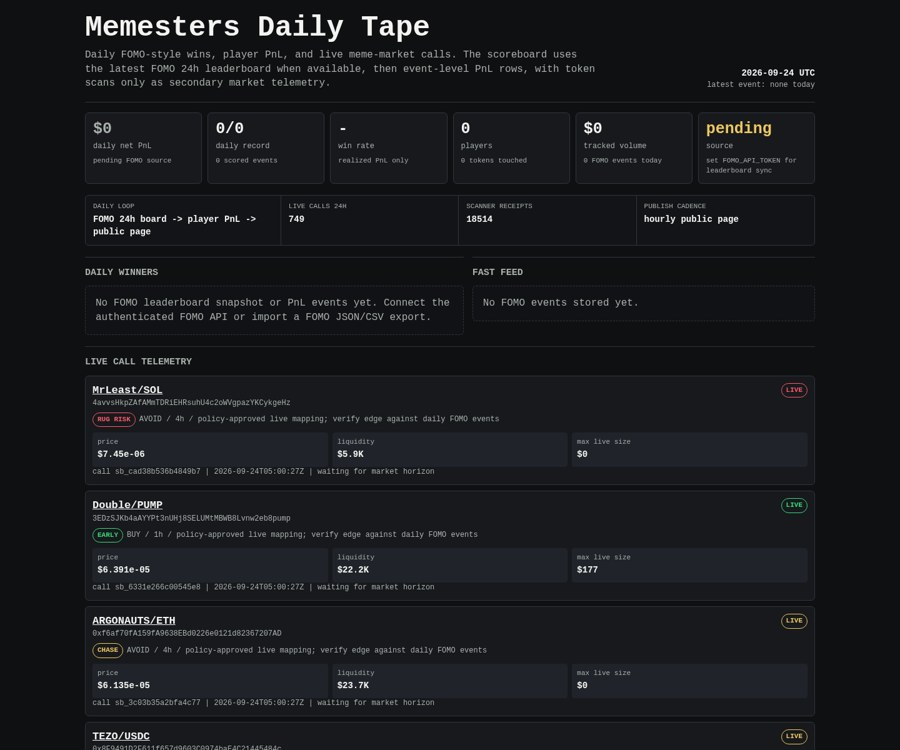
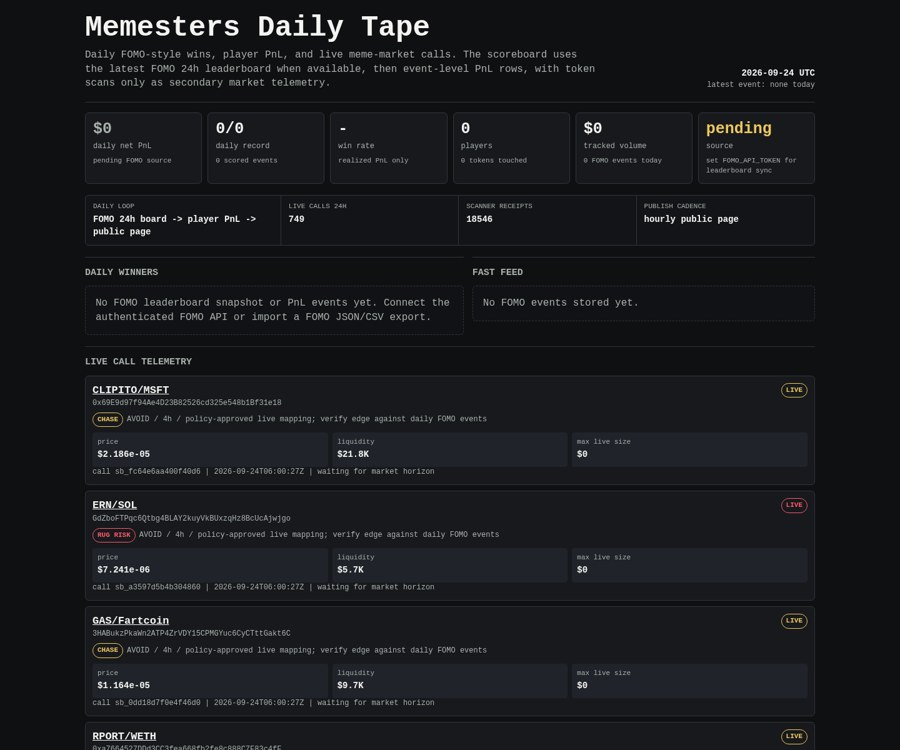
Update Memesters scoreboard

diff --git a/memesters/index.html b/memesters/index.html
@@ -150,7 +150,7 @@
     <div class="rail" aria-label="live operating loop">
       <div><span>daily loop</span><b>FOMO 24h board -> player PnL -> public page</b></div>
       <div><span>live calls 24h</span><b>749</b></div>
-      <div><span>scanner receipts</span><b>18514</b></div>
+      <div><span>scanner receipts</span><b>18546</b></div>
       <div><span>publish cadence</span><b>hourly public page</b></div>
     </div>
 
@@ -171,111 +171,6 @@
     <article class="receipt">
       <div class="receipt-head">
         <div>
-          <div class="pair"><a href="https://dexscreener.com/solana/6ij8ne4tiwhdshzzawsdkkd89q3b5vj2hah98entj5zs">MrLeast/SOL</a></div>
-          <div class="addr">4avvsHkpZAfAMmTDRiEHRsuhU4c2oWVgpazYKCykgeHz</div>
-          <div class="addr policy-line">
-            <span class="badge rug-risk">RUG RISK</span>
-            <span>AVOID / 4h / policy-approved live mapping; verify edge against daily FOMO events</span>
-          </div>
-        </div>
-        <span class="badge rug-risk">LIVE</span>
-      </div>
-      <div class="receipt-grid">
-        <div class="kv"><span>price</span><b>$7.45e-06</b></div>
-        <div class="kv"><span>liquidity</span><b>$5.9K</b></div>
-        <div class="kv"><span>max live size</span><b>$0</b></div>
-      </div>
-      <div class="outcomes">call sb_cad38b536b4849b7 | 2026-09-24T05:00:27Z | waiting for market horizon</div>
-    </article>
-    
-
-    <article class="receipt">
-      <div class="receipt-head">
-        <div>
-          <div class="pair"><a href="https://dexscreener.com/solana/6vro11ao6lssolkjzu56y4vexdxy4f59wmh6frykhjyd">Double/PUMP</a></div>
-          <div class="addr">3EDzSJKb4aAYYPt3nUHj8SELUMtMBWB8Lvnw2eb8pump</div>
-          <div class="addr policy-line">
-            <span class="badge early">EARLY</span>
-            <span>BUY / 1h / policy-approved live mapping; verify edge against daily FOMO events</span>
-          </div>
-        </div>
-        <span class="badge early">LIVE</span>
-      </div>
-      <div class="receipt-grid">
-        <div class="kv"><span>price</span><b>$6.391e-05</b></div>
-        <div class="kv"><span>liquidity</span><b>$22.2K</b></div>
-        <div class="kv"><span>max live size</span><b>$177</b></div>
-      </div>
-      <div class="outcomes">call sb_6331e266c00545e8 | 2026-09-24T05:00:27Z | waiting for market horizon</div>
-    </article>
-    
-
-    <article class="receipt">
-      <div class="receipt-head">
-        <div>
-          <div class="pair"><a href="https://dexscreener.com/robinhood/0xb4827531bb44965ec09001b4d52dff68f21ee2c0ad130a11ed0d394025b711da">ARGONAUTS/ETH</a></div>
-          <div class="addr">0xf6af70fA159fA9638EBd0226e0121d82367207AD</div>
-          <div class="addr policy-line">
-            <span class="badge chase">CHASE</span>
-            <span>AVOID / 4h / policy-approved live mapping; verify edge against daily FOMO events</span>
-          </div>
-        </div>
-        <span class="badge chase">LIVE</span>
-      </div>
-      <div class="receipt-grid">
-        <div class="kv"><span>price</span><b>$6.135e-05</b></div>
-        <div class="kv"><span>liquidity</span><b>$23.7K</b></div>
-        <div class="kv"><span>max live size</span><b>$0</b></div>
-      </div>
-      <div class="outcomes">call sb_3c03b35a2bfa4c77 | 2026-09-24T05:00:27Z | waiting for market horizon</div>
-    </article>
-    
-
-    <article class="receipt">
-      <div class="receipt-head">
-        <div>
-          <div class="pair"><a href="https://dexscreener.com/arc/0xe5434aec0bcf1bef4ffddb0dfcbc0c8b96643e55b5e1fd7b390cd911baed743f">TEZO/USDC</a></div>
-          <div class="addr">0x8F9491D2F611f657d9603C0974baE4C21445484c</div>
-          <div class="addr policy-line">
-            <span class="badge chase">CHASE</span>
-            <span>AVOID / 4h / policy-approved live mapping; verify edge against daily FOMO events</span>
-          </div>
-        </div>
-        <span class="badge chase">LIVE</span>
-      </div>
-      <div class="receipt-grid">
-        <div class="kv"><span>price</span><b>$2.857e-05</b></div>
-        <div class="kv"><span>liquidity</span><b>$14.4K</b></div>
-        <div class="kv"><span>max live size</span><b>$0</b></div>
-      </div>
-      <div class="outcomes">call sb_73339ad5a9df4302 | 2026-09-24T05:00:27Z | waiting for market horizon</div>
-    </article>
-    
-
-    <article class="receipt">
-      <div class="receipt-head">
-        <div>
-          <div class="pair"><a href="https://dexscreener.com/solana/hhe2ty1dgpr7sdmjc2htacq7dtxfr5f6bf3n2nwwkoce">FUNKOS/SOL</a></div>
-          <div class="addr">BDKC1AV3saXrN8jKnWB2TTQmDD6z8CFdY55ku7eAfunk</div>
-          <div class="addr policy-line">
-            <span class="badge early">EARLY</span>
-            <span>BUY / 1h / policy-approved live mapping; verify edge against daily FOMO events</span>
-          </div>
-        </div>
-        <span class="badge early">LIVE</span>
-      </div>
-      <div class="receipt-grid">
-        <div class="kv"><span>price</span><b>$7.186e-05</b></div>
-        <div class="kv"><span>liquidity</span><b>$22.4K</b></div>
-        <div class="kv"><span>max live size</span><b>$269</b></div>
-      </div>
-      <div class="outcomes">call sb_bf97b0ee631343bc | 2026-09-24T05:00:27Z | waiting for market horizon</div>
-    </article>
-    
-
-    <article class="receipt">
-      <div class="receipt-head">
-        <div>
           <div class="pair"><a href="https://dexscreener.com/robinhood/0x426569b32d65ec58b0f852afcb3bcc5fc5601dd6863fbf44258b944521a05ee1">CLIPITO/MSFT</a></div>
           <div class="addr">0x69E9d97f94Ae4D23B82526cd325e548b1Bf31e18</div>
           <div class="addr policy-line">
@@ -286,11 +181,11 @@
         <span class="badge chase">LIVE</span>
       </div>
       <div class="receipt-grid">
-        <div class="kv"><span>price</span><b>$2.183e-05</b></div>
+        <div class="kv"><span>price</span><b>$2.186e-05</b></div>
         <div class="kv"><span>liquidity</span><b>$21.8K</b></div>
         <div class="kv"><span>max live size</span><b>$0</b></div>
       </div>
-      <div class="outcomes">call sb_50fe6fd71fe14e67 | 2026-09-24T05:00:27Z | waiting for market horizon</div>
+      <div class="outcomes">call sb_fc64e6aa400f40d6 | 2026-09-24T06:00:27Z | waiting for market horizon</div>
     </article>
     
 
@@ -307,19 +202,61 @@
         <span class="badge rug-risk">LIVE</span>
       </div>
       <div class="receipt-grid">
-        <div class="kv"><span>price</span><b>$2.476e-05</b></div>
-        <div class="kv"><span>liquidity</span><b>$12.2K</b></div>
+        <div class="kv"><span>price</span><b>$7.241e-06</b></div>
+        <div class="kv"><span>liquidity</span><b>$5.7K</b></div>
         <div class="kv"><span>max live size</span><b>$0</b></div>
       </div>
-      <div class="outcomes">call sb_4405f8f2d9844f79 | 2026-09-24T05:00:27Z | waiting for market horizon</div>
+      <div class="outcomes">call sb_a3597d5b4b304860 | 2026-09-24T06:00:27Z | waiting for market horizon</div>
     </article>
     
 
     <article class="receipt">
       <div class="receipt-head">
         <div>
-          <div class="pair"><a href="https://dexscreener.com/bsc/0x9db472d4450319d9e368000c1e6fd606866db82d">兔儿爷/FXIon</a></div>
-          <div class="addr">0xBaD51F4922189C087c75323430e8B8d1b3247777</div>
+          <div class="pair"><a href="https://dexscreener.com/solana/ctq3twtszlb5r2osqfrvf4oa7ndmxe472rsd1k22v98h">GAS/Fartcoin </a></div>
+          <div class="addr">3HABukzPkaWn2ATP4ZrVDY15CPMGYuc6CyCTttGakt6C</div>
+          <div class="addr policy-line">
+            <span class="badge chase">CHASE</span>
+            <span>AVOID / 4h / policy-approved live mapping; verify edge against daily FOMO events</span>
+          </div>
+        </div>
+        <span class="badge chase">LIVE</span>
+      </div>
+      <div class="receipt-grid">
+        <div class="kv"><span>price</span><b>$1.164e-05</b></div>
+        <div class="kv"><span>liquidity</span><b>$9.7K</b></div>
+        <div class="kv"><span>max live size</span><b>$0</b></div>
+      </div>
+      <div class="outcomes">call sb_0dd18d7f0e4f46d0 | 2026-09-24T06:00:27Z | waiting for market horizon</div>
+    </article>
+    
+
+    <article class="receipt">
+      <div class="receipt-head">
+        <div>
+          <div class="pair"><a href="https://dexscreener.com/robinhood/0x7cc9819ec5aad35e8d6080fefb2a747fdc74a19570bc6b9972da4893161b5c62">RPORT/WETH</a></div>
+          <div class="addr">0xa7664527DDd3CC3fea668fb2fe8c888C7F83c4fF</div>
+          <div class="addr policy-line">
+            <span class="badge chase">CHASE</span>
+            <span>AVOID / 4h / policy-approved live mapping; verify edge against daily FOMO events</span>
+          </div>
+        </div>
+        <span class="badge chase">LIVE</span>
+      </div>
+      <div class="receipt-grid">
+        <div class="kv"><span>price</span><b>$8.721e-06</b></div>
+        <div class="kv"><span>liquidity</span><b>$293.1K</b></div>
+        <div class="kv"><span>max live size</span><b>$0</b></div>
+      </div>
+      <div class="outcomes">call sb_efa528cb5b01453e | 2026-09-24T06:00:27Z | waiting for market horizon</div>
+    </article>
+    
+
+    <article class="receipt">
+      <div class="receipt-head">
+        <div>
+          <div class="pair"><a href="https://dexscreener.com/arc/0x54257aaa7bcadcd5b7a29b830b99f04d8b929e40e317e764f6226b7834cf0d7a">AMC/USDC</a></div>
+          <div class="addr">0xd8032e999a713830460E506b53cCDC15f24b7cd2</div>
           <div class="addr policy-line">
             <span class="badge rug-risk">RUG RISK</span>
             <span>AVOID / 4h / policy-approved live mapping; verify edge against daily FOMO events</span>
@@ -328,19 +265,61 @@
         <span class="badge rug-risk">LIVE</span>
       </div>
       <div class="receipt-grid">
-        <div class="kv"><span>price</span><b>$3.647e-06</b></div>
-        <div class="kv"><span>liquidity</span><b>$7.8K</b></div>
+        <div class="kv"><span>price</span><b>$2.629e-06</b></div>
+        <div class="kv"><span>liquidity</span><b>$2.6K</b></div>
         <div class="kv"><span>max live size</span><b>$0</b></div>
       </div>
-      <div class="outcomes">call sb_e5d46ee95f454bc5 | 2026-09-24T04:45:25Z | waiting for market horizon</div>
+      <div class="outcomes">call sb_88a0fe1b85e84fcf | 2026-09-24T06:00:27Z | waiting for market horizon</div>
     </article>
     
 
     <article class="receipt">
       <div class="receipt-head">
         <div>
-          <div class="pair"><a href="https://dexscreener.com/solana/ezhmrxzybahyvyne77w3ycjcmsuwkpntjgjnpwne8hlw">WAGE/STONK</a></div>
-          <div class="addr">GAdFNQFpwfrvPfMYP8CPGi3AS1g6XNsqZE99w8CWeAmq</div>
+          <div class="pair"><a href="https://dexscreener.com/solana/dplrhesp4evhlaouzdz3rraqd4vzyjvcoavckvwqyfl9">ST4Y/SOL</a></div>
+          <div class="addr">7xDddGgDWBYED33sWwjDWSHCc77TZBRtFCesDCWWpump</div>
+          <div class="addr policy-line">
+            <span class="badge rug-risk">RUG RISK</span>
+            <span>AVOID / 4h / policy-approved live mapping; verify edge against daily FOMO events</span>
+          </div>
+        </div>
+        <span class="badge rug-risk">LIVE</span>
+      </div>
+      <div class="receipt-grid">
+        <div class="kv"><span>price</span><b>$4.012e-06</b></div>
+        <div class="kv"><span>liquidity</span><b>$3.7K</b></div>
+        <div class="kv"><span>max live size</span><b>$0</b></div>
+      </div>
+      <div class="outcomes">call sb_78fc575ddf7a4314 | 2026-09-24T06:00:27Z | waiting for market horizon</div>
+    </article>
+    
+
+    <article class="receipt">
+      <div class="receipt-head">
+        <div>
+          <div class="pair"><a href="https://dexscreener.com/arc/0xac6c2e7a5aebbfab5be7e7df7e2eee28fc719459521083c9d848007476d9ac65">MEMESPAD/USDC</a></div>
+          <div class="addr">0xA26b3D4F8d3ce3F7Fa8b03DDc3e8AF63e4cF3676</div>
+          <div class="addr policy-line">
+            <span class="badge rug-risk">RUG RISK</span>
+            <span>AVOID / 4h / policy-approved live mapping; verify edge against daily FOMO events</span>
+          </div>
+        </div>
+        <span class="badge rug-risk">LIVE</span>
+      </div>
+      <div class="receipt-grid">
+        <div class="kv"><span>price</span><b>$2.5e-06</b></div>
+        <div class="kv"><span>liquidity</span><b>$2.5K</b></div>
+        <div class="kv"><span>max live size</span><b>$0</b></div>
+      </div>
+      <div class="outcomes">call sb_c396dc78bafc48a0 | 2026-09-24T06:00:26Z | waiting for market horizon</div>
+    </article>
+    
+
+    <article class="receipt">
+      <div class="receipt-head">
+        <div>
+          <div class="pair"><a href="https://dexscreener.com/robinhood/0x6aec212938c31a5499a25075461f71618add559f2eb31419f69d07b1782911d6">Firm/META</a></div>
+          <div class="addr">0x920c0bDD29cF74e8857217f23C09Ed219B8cafD5</div>
           <div class="addr policy-line">
             <span class="badge early">EARLY</span>
             <span>BUY / 1h / policy-approved live mapping; verify edge against daily FOMO events</span>
@@ -349,32 +328,53 @@
         <span class="badge early">LIVE</span>
       </div>
       <div class="receipt-grid">
-        <div class="kv"><span>price</span><b>$7.358e-05</b></div>
-        <div class="kv"><span>liquidity</span><b>$28.2K</b></div>
+        <div class="kv"><span>price</span><b>$4.798e-05</b></div>
+        <div class="kv"><span>liquidity</span><b>$19.8K</b></div>
+        <div class="kv"><span>max live size</span><b>$35</b></div>
+      </div>
+      <div class="outcomes">call sb_a586924970864468 | 2026-09-24T06:00:26Z | waiting for market horizon</div>
+    </article>
+    
+
+    <article class="receipt">
+      <div class="receipt-head">
+        <div>
+          <div class="pair"><a href="https://dexscreener.com/solana/8tqybepyfrng3khb2gr2uvddup6fgryevwe66z5qe47r">POLAR/SOL</a></div>
+          <div class="addr">3MPMS79faRVnM99tdHJFEwit6pRMeQQrWfmX32dmpump</div>
+          <div class="addr policy-line">
+            <span class="badge early">EARLY</span>
+            <span>BUY / 1h / policy-approved live mapping; verify edge against daily FOMO events</span>
+          </div>
+        </div>
+        <span class="badge early">LIVE</span>
+      </div>
+      <div class="receipt-grid">
+        <div class="kv"><span>price</span><b>$5.109e-05</b></div>
+        <div class="kv"><span>liquidity</span><b>$18.6K</b></div>
+        <div class="kv"><span>max live size</span><b>$223</b></div>
+      </div>
+      <div class="outcomes">call sb_bf9d6f6773c2478f | 2026-09-24T05:45:26Z | waiting for market horizon</div>
+    </article>
+    
+
+    <article class="receipt">
+      <div class="receipt-head">
+        <div>
+          <div class="pair"><a href="https://dexscreener.com/robinhood/0x426569b32d65ec58b0f852afcb3bcc5fc5601dd6863fbf44258b944521a05ee1">CLIPITO/MSFT</a></div>
+          <div class="addr">0x69E9d97f94Ae4D23B82526cd325e548b1Bf31e18</div>
+          <div class="addr policy-line">
+            <span class="badge early">EARLY</span>
+            <span>BUY / 1h / policy-approved live mapping; verify edge against daily FOMO events</span>
+          </div>
+        </div>
+        <span class="badge early">LIVE</span>
+      </div>
+      <div class="receipt-grid">
+        <div class="kv"><span>price</span><b>$2.186e-05</b></div>
+        <div class="kv"><span>liquidity</span><b>$21.8K</b></div>
         <div class="kv"><span>max live size</span><b>$25</b></div>
       </div>
-      <div class="outcomes">call sb_e878653c76a64049 | 2026-09-24T04:45:25Z | waiting for market horizon</div>
-    </article>
-    
-
-    <article class="receipt">
-      <div class="receipt-head">
-        <div>
-          <div class="pair"><a href="https://dexscreener.com/solana/5kclma7j61yw48ef1map54deaqdmwntsszbuf1bege6g">RUNE/GP</a></div>
-          <div class="addr">B4cqDdBWDf6hgy1rma8u4JpoTnoycDQyg33aR48mfFvE</div>
-          <div class="addr policy-line">
-            <span class="badge early">EARLY</span>
-            <span>BUY / 1h / policy-approved live mapping; verify edge against daily FOMO events</span>
-          </div>
-        </div>
-        <span class="badge early">LIVE</span>
-      </div>
-      <div class="receipt-grid">
-        <div class="kv"><span>price</span><b>$7.624e-05</b></div>
-        <div class="kv"><span>liquidity</span><b>$25.0K</b></div>
-        <div class="kv"><span>max live size</span><b>$243</b></div>
-      </div>
-      <div class="outcomes">call sb_0c648ca23bf34028 | 2026-09-24T04:45:25Z | waiting for market horizon</div>
+      <div class="outcomes">call sb_ce5c6ae1362f47e2 | 2026-09-24T05:45:26Z | waiting for market horizon</div>
     </article>
     
     </section>
